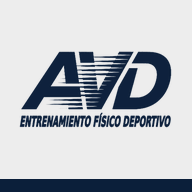
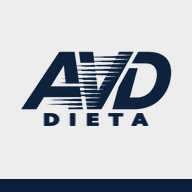
Logotipo con 'DIETA' y nombre de las apps con el término Dieta
Claude-Session: https://claude.ai/code/session_01KT9EGT4E9BFbdDoyd11Kua

Changed region(s): [[0.0938, 0.5625, 0.9062, 0.6875]]

diff --git a/index.html b/index.html
@@ -10,19 +10,19 @@ S.getItem=function(k){return this===L?g.call(this,P+k):g.call(this,k)};
 S.setItem=function(k,v){return this===L?s.call(this,P+k,v):s.call(this,k,v)};
 S.removeItem=function(k){return this===L?r.call(this,P+k):r.call(this,k)}}catch(e){}})();
 addEventListener('error',function(ev){if(window.__ok||window.__eb)return;var m=String((ev&&ev.message)||'error');if(/ResizeObserver|Script error|fetching the script/.test(m))return;window.__eb=1;function s(){var d=document.createElement('div');d.setAttribute('role','alert');d.style.cssText='position:fixed;left:0;right:0;top:0;z-index:99999;background:#B00020;color:#fff;padding:10px 14px;font:600 14px sans-serif';d.innerHTML='La app no pudo iniciar bien. Tus datos están guardados. <button id="__rl" style="margin-left:8px">Recargar</button><div style="font:12px monospace;opacity:.85;margin-top:4px;word-break:break-all"></div>';d.lastChild.textContent=m;document.body.appendChild(d);d.querySelector('#__rl').addEventListener('click',function(){location.reload()})}if(document.body)s();else addEventListener('DOMContentLoaded',s)});</script>
-<meta http-equiv="Content-Security-Policy" content="default-src 'self'; script-src 'self' 'sha256-byOTaoW+ZNS57/x3efFQZhwsr32N+s7d7koj3jHqtZY=' 'sha256-qU6DWBX1VQveXc9TeII3EBmDYmINnhxrhR7cnB9/C0k=' 'sha256-SzDLl6pj7XL21Z1IEm+GIiae+kOsnaOIwELgPTUeyR4=' 'sha256-DkxlatT3tY142XN1P/5KmsI1QiNP68y1t0Q7uPkYvt0=' 'sha256-qTUVFwDT7jtOQUGPpvZZ789mgKOS7fx5MgwbD3DRowo=' 'wasm-unsafe-eval' https://cdnjs.cloudflare.com https://cdn.jsdelivr.net; style-src 'self' 'unsafe-inline' https://fonts.googleapis.com; font-src https://fonts.gstatic.com; img-src 'self' data: blob:; connect-src 'self' https://*.supabase.co https://cdnjs.cloudflare.com https://cdn.jsdelivr.net https://tessdata.projectnaptha.com https://world.openfoodfacts.org; worker-src 'self' blob:; object-src 'none'; base-uri 'none'; form-action 'none'">
+<meta http-equiv="Content-Security-Policy" content="default-src 'self'; script-src 'self' 'sha256-byOTaoW+ZNS57/x3efFQZhwsr32N+s7d7koj3jHqtZY=' 'sha256-qU6DWBX1VQveXc9TeII3EBmDYmINnhxrhR7cnB9/C0k=' 'sha256-SzDLl6pj7XL21Z1IEm+GIiae+kOsnaOIwELgPTUeyR4=' 'sha256-MGe+YRYQjnoZnqBqxsh++vMoAsHqkfXHFbwhE5qRvAY=' 'sha256-qTUVFwDT7jtOQUGPpvZZ789mgKOS7fx5MgwbD3DRowo=' 'wasm-unsafe-eval' https://cdnjs.cloudflare.com https://cdn.jsdelivr.net; style-src 'self' 'unsafe-inline' https://fonts.googleapis.com; font-src https://fonts.gstatic.com; img-src 'self' data: blob:; connect-src 'self' https://*.supabase.co https://cdnjs.cloudflare.com https://cdn.jsdelivr.net https://tessdata.projectnaptha.com https://world.openfoodfacts.org; worker-src 'self' blob:; object-src 'none'; base-uri 'none'; form-action 'none'">
 <link rel="manifest" href="manifest.json">
 <meta name="theme-color" content="#0B1F3A">
 <meta name="apple-mobile-web-app-capable" content="yes">
 <meta name="mobile-web-app-capable" content="yes">
-<meta name="apple-mobile-web-app-title" content="Admin AVD">
+<meta name="apple-mobile-web-app-title" content="Admin Dieta">
 <link rel="apple-touch-icon" href="icon-192.png">
 <link rel="icon" href="icon-192.png">
 <script src="config.js"></script>
 <script>try{var t=localStorage.getItem("avd_theme");document.documentElement.setAttribute("data-theme",t==="claro"||(t!=="oscuro"&&matchMedia("(prefers-color-scheme: light)").matches)?"light":"dark")}catch(e){}</script>
 <meta charset="utf-8">
 <meta name="viewport" content="width=device-width, initial-scale=1, viewport-fit=cover">
-<title>Administrador de clientes</title>
+<title>Administrador de dietas</title>
 <link rel="preconnect" href="https://fonts.googleapis.com">
 <meta name="theme-color" content="#EDEDED"><meta name="color-scheme" content="light"><link href="https://fonts.googleapis.com/css2?family=Barlow+Condensed:ital,wght@0,600;0,700;1,700;1,800&family=Barlow:wght@400;500;600&display=swap" rel="stylesheet">
 <style>
@@ -143,7 +143,7 @@ body[data-view=hoy] #dta>h2,body[data-view=hoy] #dta>.hint,body[data-view=hoy] #
 </style>
 </head>
 <body>
[2 lines of base64/hex data omitted]
 <nav id="nv" aria-label="Menú principal"></nav>
 <div class="w">
 <p class="sub" data-vs="cli">Registra a cada cliente, define sus objetivos y crea su usuario y contraseña. Genera su código de actualización y recibe los cambios que él te envíe.</p>
@@ -2311,7 +2311,7 @@ for(let m=0;m<6;m++)if(js2((o.ms||{})[m])!==js2((n.ms||{})[m]))r.push('Cambió l
 for(let i=0;i<7;i++)if(js2((o.wk||[])[i])!==js2((n.wk||[])[i]))r.push('Entrenamiento del '+DN[i].toLowerCase()+': '+dtx((n.wk||[])[i]));
 Object.keys(n.chk||{}).forEach(d=>{if(js((o.chk||{})[d])!==js(n.chk[d])){const c=n.chk[d],a=Object.keys(c.i||{}).length,z=Object.keys(c.fz||{}).length;r.push('Cumplimiento del '+d+': '+a+' alimento(s) marcado(s)'+(z?', '+z+' comida(s) compensada(s)':''))}});
 return r.length>12?r.slice(0,12).concat('… y '+(r.length-12)+' cambios más'):r}
-function noteUI(){const l=S.notes;document.title=(l.length?'('+l.length+') ':'')+'Administrador de clientes';$('#cht').textContent='Cambios de clientes'+(l.length?' ('+l.length+' nuevo'+(l.length>1?'s':'')+')':'');
+function noteUI(){const l=S.notes;document.title=(l.length?'('+l.length+') ':'')+'Administrador de dietas';$('#cht').textContent='Cambios de clientes'+(l.length?' ('+l.length+' nuevo'+(l.length>1?'s':'')+')':'');
 $('#nt').innerHTML=l.map((n,i)=>`<div class="meal"><h3><span>${esc(n.name)}</span><span style="font-size:13px;color:var(--mu)">${new Date(n.t).toLocaleString('es-BO')}</span></h3><ul>${n.items.map(x=>`<li><span>${esc(x)}</span></li>`).join('')}</ul><div class="row"><button class="pr" data-na="${i}">Aplicar y ver</button><button data-nd="${i}">Descartar</button></div></div>`).join('');
 document.querySelectorAll('[data-na]').forEach(b=>b.onclick=()=>applyNote(+b.dataset.na));
 document.querySelectorAll('[data-nd]').forEach(b=>b.onclick=()=>{S.notes.splice(+b.dataset.nd,1);save();noteUI()})}
@@ -3059,7 +3059,7 @@ mt.oninput=()=>{S.p.msg={t:Date.now(),x:mt.value.slice(0,400)};mi.textContent='P
 document.head.insertAdjacentHTML('beforeend','<style>#rpt{display:none}#rpt .rp{background:#fff;color:#111;padding:18px;max-width:820px;margin:0 auto}#rpt table{width:100%;border-collapse:collapse;margin:6px 0 14px;font-size:13px}#rpt th,#rpt td{border:1px solid #bbb;padding:4px 6px;text-align:left}#rpt h1{font:700 26px Barlow Condensed,sans-serif;color:#0B1F3A;margin:0}#rpt h3{margin:14px 0 4px;color:#0B1F3A}.rpb{position:fixed;top:8px;right:8px;z-index:90;display:flex;gap:8px}@media print{body.rp>*:not(#rpt){display:none!important}body.rp #rpt{display:block!important;position:static!important;overflow:visible!important}.rpb{display:none!important}}body.rp #rpt{display:block;position:fixed;inset:0;background:#fff;z-index:85;overflow:auto}</style><div id="rpt"></div>');
 window.rptOpen=function(){const p=S.p,D=S.wk.map((_,i)=>dayT(i)),lg=lgGet().filter(x=>x.w!=null).slice(-12);let svg='';if(lg.length>1){const ws=lg.map(x=>x.w),mn=Math.min(...ws)-1,mx=Math.max(...ws)+1,pt=lg.map((x,i)=>[20+i*(360/(lg.length-1)),100-(x.w-mn)/(mx-mn)*80]);svg=`<svg viewBox="0 0 400 110" style="width:100%;max-width:420px"><polyline fill="none" stroke="#FF5A1F" stroke-width="2" points="${pt.map(a=>a.join(',')).join(' ')}"/>${pt.map((a,i)=>`<circle cx="${a[0]}" cy="${a[1]}" r="3" fill="#0B1F3A"/><text x="${a[0]}" y="${a[1]-6}" font-size="9" text-anchor="middle">${lg[i].w}</text>`).join('')}</svg>`}
 const meals=[0,1,2,3,4,5,6].map(i=>{const{g}=dayPlan(i);return g.miss?'':`<tr><td><b>${DN[i]}</b><br>${esc(lab(i))}</td><td>${g.out.map(o=>`<b>${esc(o.nm)}:</b> `+(optOn()?esc(optTxt(o)):o.it.map(({f,x})=>esc(f.n)+' '+qty(f,x).replace(/<\/?small>/g,'')).join(', '))).join('<br>')}</td></tr>`}).join('');
-$('#rpt').innerHTML=`<div class="rpb"><button class="pr" data-act="pdf">Descargar PDF</button><button data-act="print">Imprimir</button><button data-act="close">Cerrar</button></div><div class="rp"><h1>Informe nutricional</h1><p><b>${esc(p.name||'Cliente')}</b> · ${r0(p.w)} kg · ${r0(p.h)} cm · ${r0(p.age)} años · ${new Date().toLocaleDateString('es-BO')}</p><h3>Plan semanal (objetivos)</h3><table><thead><tr><th>Día</th><th>Entrenamiento</th><th>kcal</th><th>Prot. g</th><th>Carb. g</th><th>Grasa g</th></tr></thead><tbody>${D.map((d,i)=>`<tr><td>${DN[i]}</td><td>${esc(lab(i))}</td><td>${r0(d.k)}</td><td>${r0(d.P)}</td><td>${r0(d.C)}</td><td>${r0(d.G)}</td></tr>`).join('')}</tbody></table><h3>Menú de la semana</h3><table><tbody>${meals}</tbody></table>${svg?'<h3>Evolución del peso (kg)</h3>'+svg:''}${p.msg&&p.msg.x?`<h3>Indicaciones</h3><p style="white-space:pre-wrap">${esc(p.msg.x)}</p>`:''}<p style="font-size:11px;color:#555;margin-top:16px">Valores aproximados. No reemplazan la indicación de un nutricionista deportivo. AVD – Entrenamiento físico deportivo.</p></div>`;document.body.classList.add('rp');$('#rpt').scrollTop=0};
+$('#rpt').innerHTML=`<div class="rpb"><button class="pr" data-act="pdf">Descargar PDF</button><button data-act="print">Imprimir</button><button data-act="close">Cerrar</button></div><div class="rp"><h1>Informe nutricional</h1><p><b>${esc(p.name||'Cliente')}</b> · ${r0(p.w)} kg · ${r0(p.h)} cm · ${r0(p.age)} años · ${new Date().toLocaleDateString('es-BO')}</p><h3>Plan semanal (objetivos)</h3><table><thead><tr><th>Día</th><th>Entrenamiento</th><th>kcal</th><th>Prot. g</th><th>Carb. g</th><th>Grasa g</th></tr></thead><tbody>${D.map((d,i)=>`<tr><td>${DN[i]}</td><td>${esc(lab(i))}</td><td>${r0(d.k)}</td><td>${r0(d.P)}</td><td>${r0(d.C)}</td><td>${r0(d.G)}</td></tr>`).join('')}</tbody></table><h3>Menú de la semana</h3><table><tbody>${meals}</tbody></table>${svg?'<h3>Evolución del peso (kg)</h3>'+svg:''}${p.msg&&p.msg.x?`<h3>Indicaciones</h3><p style="white-space:pre-wrap">${esc(p.msg.x)}</p>`:''}<p style="font-size:11px;color:#555;margin-top:16px">Valores aproximados. No reemplazan la indicación de un nutricionista deportivo. AVD – Dieta.</p></div>`;document.body.classList.add('rp');$('#rpt').scrollTop=0};
 /*feat5: informe PDF real (sin diálogo de impresión)*/
 const PDFW=(()=>{const HW={' ':278,'!':278,'"':355,'#':556,'$':556,'%':889,'&':667,"'":191,'(':333,')':333,'*':389,'+':584,',':278,'-':333,'.':278,'/':278,':':278,';':278,'<':584,'=':584,'>':584,'?':556,'@':1015,A:667,B:667,C:722,D:722,E:667,F:611,G:778,H:722,I:278,J:500,K:667,L:556,M:833,N:722,O:778,P:667,Q:778,R:722,S:667,T:611,U:722,V:667,W:944,X:667,Y:667,Z:611,'[':278,'\\':278,']':278,'^':469,_:556,'`':333,a:556,b:556,c:500,d:556,e:556,f:278,g:556,h:556,i:222,j:222,k:500,l:222,m:833,n:556,o:556,p:556,q:556,r:333,s:500,t:278,u:556,v:500,w:722,x:500,y:500,z:500,'{':334,'|':260,'}':334,'~':584};
 const MAP={'–':'\x96','—':'\x97','’':"'",'‘':"'",'“':'"','”':'"','•':'\x95','Σ':'Suma ','≥':'>=','≤':'<=','≈':'~','→':'->','✓':'','π':'pi','×':'\xD7','−':'-','á':'\xE1'};
@@ -3094,7 +3094,7 @@ const api={
   objs[1]=`<< /Type /Pages /Kids [${kids.join(' ')}] /Count ${pages.length} >>`;let out='%PDF-1.4\n',off=[];objs.forEach((o,i)=>{off.push(out.length);out+=`${i+1} 0 obj\n${o}\nendobj\n`});const xr=out.length;out+=`xref\n0 ${objs.length+1}\n0000000000 65535 f \n`+off.map(o=>String(o).padStart(10,'0')+' 00000 n \n').join('')+`trailer\n<< /Size ${objs.length+1} /Root 1 0 R >>\nstartxref\n${xr}\n%%EOF`;
   const u=new Uint8Array(out.length);for(let i=0;i<out.length;i++)u[i]=out.charCodeAt(i)&255;return u}};return api}})();
 function pdfReport(){const p=S.p,c=cmp(),D=S.wk.map((_,i)=>dayT(i)),f1=(x,d=1)=>x==null||isNaN(x)?'-':(Math.round(x*10**d)/10**d).toFixed(d),G={per:'Perder grasa',man:'Mantener peso',gan:'Ganar masa'}[p.goal]||'',SP={res:'Resistencia',fue:'Fuerza',mix:'Mixto / de equipo'}[p.sport]||'',hoy=new Date().toLocaleDateString('es-BO'),d=PDFW();
-d.h1('Informe nutricional y antropometrico','AVD - Entrenamiento fisico deportivo  |  '+hoy);
+d.h1('Informe nutricional y antropometrico','AVD - Dieta  |  '+hoy);
 d.h2('Datos del cliente');d.kv([['Nombre',p.name||'Cliente'],['Objetivo',G],['Sexo / edad',(p.sex=='f'?'Mujer':'Hombre')+' / '+r0(p.age)+' anos'+(p.bd?' (nac. '+p.bd.split('-').reverse().join('/')+')':'')],['Deporte',SP],['Peso / talla',r0(p.w*10)/10+' kg / '+r0(p.h)+' cm'],['Comidas al dia',p.meals]]);
 d.h2('Resultados antropometricos');
 d.kv([['IMC',c.bmi==null?'-':f1(c.bmi)+' kg/m2 - '+IMCV(c.bmi)],['% de grasa (Durnin-Womersley)',c.fat&&!c.fat.miss?f1(c.fat.pct)+' %':'-'],['Masa grasa / magra',c.fat&&!c.fat.miss?f1(c.fat.fm)+' / '+f1(c.fat.lbm)+' kg':'-'],['Suma de 6 pliegues',c.s6==null?'-':f1(c.s6)+' mm'],['Masa muscular (Martin 1990)',c.mm==null?'-':f1(c.mm)+' kg'],['Masa osea (Martin)',c.mo==null?'-':f1(c.mo)+' kg'],['IMO (indice musculo-oseo)',c.imo==null?'-':f1(c.imo,2)+' - '+IMOV(c.imo,p)],['Indice cintura-cadera',c.icc==null?'-':f1(c.icc,2)]]);

diff --git a/sw.js b/sw.js
@@ -1,4 +1,4 @@
-const V='avd-admin-v47',CORE=['./','index.html','manifest.json','config.js','icon-192.png','icon-512.png'];
+const V='avd-admin-v48',CORE=['./','index.html','manifest.json','config.js','icon-192.png','icon-512.png'];
 self.addEventListener('install',e=>{e.waitUntil(caches.open(V).then(c=>c.addAll(CORE)).then(()=>self.skipWaiting()))});
 self.addEventListener('activate',e=>{e.waitUntil(caches.keys().then(k=>Promise.all(k.filter(x=>x!==V).map(x=>caches.delete(x)))).then(()=>self.clients.claim()))});
 /* Red primero para la página (así se actualiza); si no hay red, usa la copia guardada. Librerías externas (Excel/PDF): se guardan al usarlas la primera vez. */
